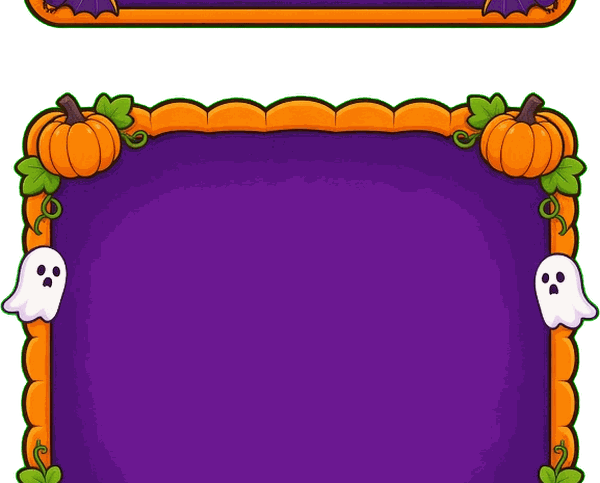
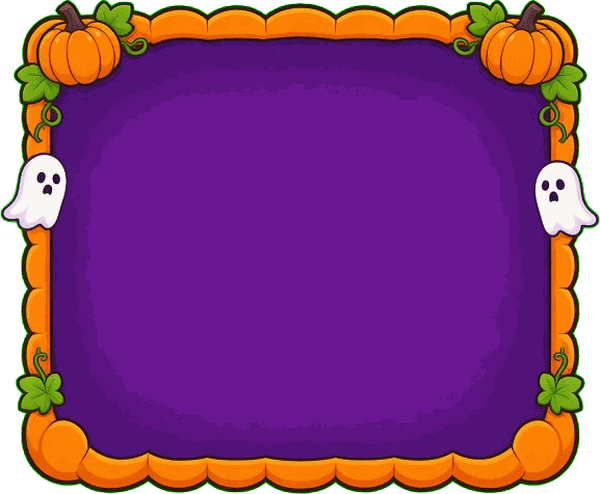
Tune level 2: pass 700, stay 0.8/0.55s, lantern 25%
Re-import UI art (card 600x494 whole image, panel 560x268, button 360x123); start button at 70% height; add 鬼王克星 title (>=1000, gold).

diff --git a/src/scenes.js b/src/scenes.js
@@ -20,7 +20,7 @@ export class StartScene extends Phaser.Scene {
     this.add.image(360, 640, 'bgStart').setDisplaySize(GAME.width, GAME.height);
     T(this, 360, 200, SKIN.title, 96, SKIN.titleColor);
     T(this, 360, 310, SKIN.subtitle + '\n两关闯关，每关 30 秒', 34);
-    button(this, 360, 1100, '开始游戏', () => this.scene.start('Play', { level: 0, total: 0, bestCombo: 0 }));
+    button(this, 360, Math.round(GAME.height * 0.7), '开始游戏', () => this.scene.start('Play', { level: 0, total: 0, bestCombo: 0 }));
   }
 }
 export class PlayScene extends Phaser.Scene {
@@ -137,7 +137,8 @@ export class PlayScene extends Phaser.Scene {
     this.scene.start('Result', { l1Score: this.levelIdx === 0 ? this.score : this.carry.l1Score, level: this.levelIdx, passed, score: this.score, bestCombo: Math.max(this.bestCombo, this.carry.bestCombo || 0) });
   }
 }
-export function titleFor(score, cleared) { for (const t of TITLES) { if (t.cleared && cleared) return t.text; if (!t.cleared && score >= t.min) return t.text; } return ''; }
+export function titleInfo(score, cleared) { for (const t of TITLES) { if ((t.cleared && cleared) || (!t.cleared && score >= t.min)) return t; } return { text: '' }; }
+export const titleFor = (score, cleared) => titleInfo(score, cleared).text;
 export class ResultScene extends Phaser.Scene {
   constructor() { super('Result'); }
   create(d) {
@@ -156,16 +157,15 @@ export class ResultScene extends Phaser.Scene {
       return;
     }
     // 战绩卡（竖屏，关键信息集中在画面中部，适合截图）
-    const cleared = d.passed, c = SKIN.cardCrop, tex = this.textures.get('uiCard');
-    if (!tex.has('card')) tex.add('card', 0, c.x, c.y, c.w, c.h);
-    T(this, 360, 330, '战绩卡', 64, SKIN.titleColor);
-    this.add.image(360, 610, 'uiCard', 'card').setScale(1.1); // 约 660x427，y 397-823
+    const cleared = d.passed, ti = titleInfo(d.score, cleared);
+    T(this, 360, 290, '战绩卡', 64, SKIN.titleColor);
+    this.add.image(360, 615, 'uiCard').setScale(1.05); // 600x494 整图 → 630x519，y 356-874
     T(this, 360, 470, cleared ? '通关第二关！' : '第二关未通过', 40, cleared ? '#9dff6a' : '#ff8a8a');
     T(this, 360, 530, '第二关得分', 30);
     T(this, 360, 600, `${d.score}`, 92);
-    T(this, 360, 690, `称号：${titleFor(d.score, cleared)}`, 46, '#ffd23f');
+    T(this, 360, 690, `称号：${ti.text}`, 46, ti.color || SKIN.text);
     T(this, 360, 760, `第一关得分 ${d.l1Score ?? 0}   最高连击 ${d.bestCombo}`, 26);
-    T(this, 360, 890, SKIN.shareLine, 30);
+    T(this, 360, 920, SKIN.shareLine, 30);
     button(this, 360, 1060, '再来一次', () => this.scene.start('Play', { level: 1, bestCombo: 0, l1Score: d.l1Score })); // 直接重打第二关
   }
 }

diff --git a/src/config.js b/src/config.js
@@ -4,10 +4,11 @@ export const SCORE = { ghost: 10, gold: 50, lanternPenalty: 20, lanternTimePenal
 export const LEVELS = [
   { id: 1, name: '第一关 黄昏墓地', duration: 30, passScore: 200, maxActive: [1, 2], stay: 1.2, stayFinal: 1.2,
     interval: 0.8, lanternRatio: 0.10, goldCount: 2, goldStay: 0.6, wave: null, bg: 'bg1' },
-  { id: 2, name: '第二关 地狱模式', duration: 30, passScore: 900, maxActive: [3, 4], stay: 0.7, stayFinal: 0.45,
-    interval: 0.35, lanternRatio: 0.30, goldCount: 3, goldStay: 0.4, wave: { lastSeconds: 10, speedMul: 2 }, bg: 'bg2' },
+  { id: 2, name: '第二关 地狱模式', duration: 30, passScore: 700, maxActive: [3, 4], stay: 0.8, stayFinal: 0.55,
+    interval: 0.35, lanternRatio: 0.25, goldCount: 3, goldStay: 0.4, wave: { lastSeconds: 10, speedMul: 2 }, bg: 'bg2' },
 ];
-export const TITLES = [ // 按得分从高到低匹配；cleared 优先
+export const TITLES = [ // 按顺序匹配：先分数顶档，再 cleared，再分数档；color 可选
+  { min: 1000, text: '鬼王克星', color: '#ffd23f' },
   { cleared: true, text: '通关第二关的狠人' },
   { min: 600, text: '驱鬼大师' },
   { min: 300, text: '见习驱鬼人' },

diff --git a/src/skin.js b/src/skin.js
@@ -14,8 +14,6 @@ export const SKIN = {
   atlas: { key: 'atlas', png: atlasPng, json: atlasJson, frameSize: 200, displaySize: 150,
     tomb: { frame: 'tomb', displaySize: 210, holeX: 100, holeY: 105 } }, // holeX/Y：洞口中心在 200px 帧内的像素坐标
   bgImages: { bg1, bg2, bgStart, uiButton, uiPanel, uiCard },
-  // ui_card.png 顶部混入了别的素材（0-40 行）+ 透明空白，只取 y=95 起的卡框
-  cardCrop: { x: 0, y: 95, w: 600, h: 388 },
   frames: { ghost: 'ghost', gold: 'gold', lantern: 'pumpkin' },
   bg1: 0x3a2350, bg2: 0x120a22, tomb: 0x6b6b7b, hole: 0x0b0614,
   ghost: { color: 0xffffff, eye: 0x222222, shape: 'ghost' },
